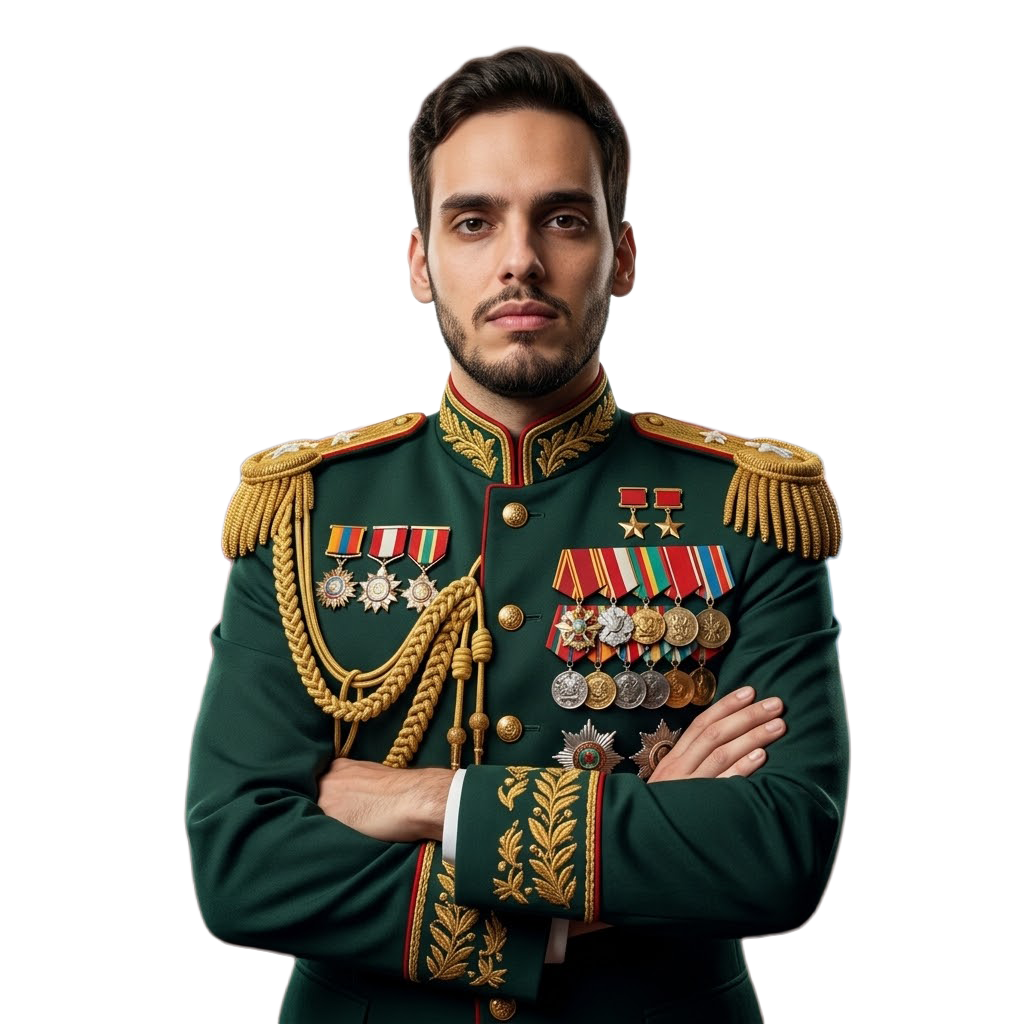
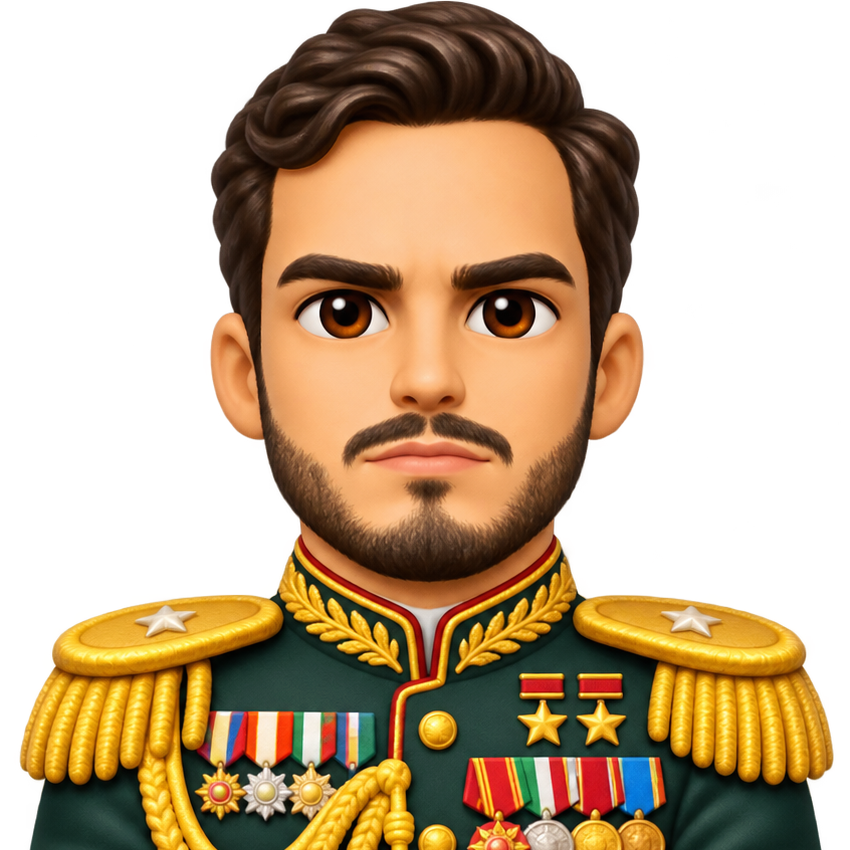
feat(reactions): adjust ditador and mirio reaction sizes to match emojis

diff --git a/src/components/whiteboard/StickyNoteItem.tsx b/src/components/whiteboard/StickyNoteItem.tsx
@@ -630,7 +630,7 @@ export const StickyNoteItem: React.FC<StickyNoteItemProps> = React.memo(({
                     y={4}
                     width={14}
                     height={14}
-                    cornerRadius={isMirio || isDitador ? 2 : 0}
+                    cornerRadius={0}
                     listening={false}
                     perfectDrawEnabled={false}
                   />
@@ -641,7 +641,7 @@ export const StickyNoteItem: React.FC<StickyNoteItemProps> = React.memo(({
                     width={14}
                     height={14}
                     fill={hasUserReacted ? '#86efac' : 'transparent'}
-                    cornerRadius={isMirio || isDitador ? 2 : 7}
+                    cornerRadius={7}
                     listening={false}
                   />
                 )}

diff --git a/src/components/whiteboard/ElementReactionBadges.tsx b/src/components/whiteboard/ElementReactionBadges.tsx
@@ -330,7 +330,7 @@ export const ElementReactionBadges: React.FC<ElementReactionBadgesProps> = React
                 y={4}
                 width={14}
                 height={14}
-                cornerRadius={isMirio || isDitador ? 2 : 0}
+                cornerRadius={0}
                 listening={false}
                 perfectDrawEnabled={false}
               />
